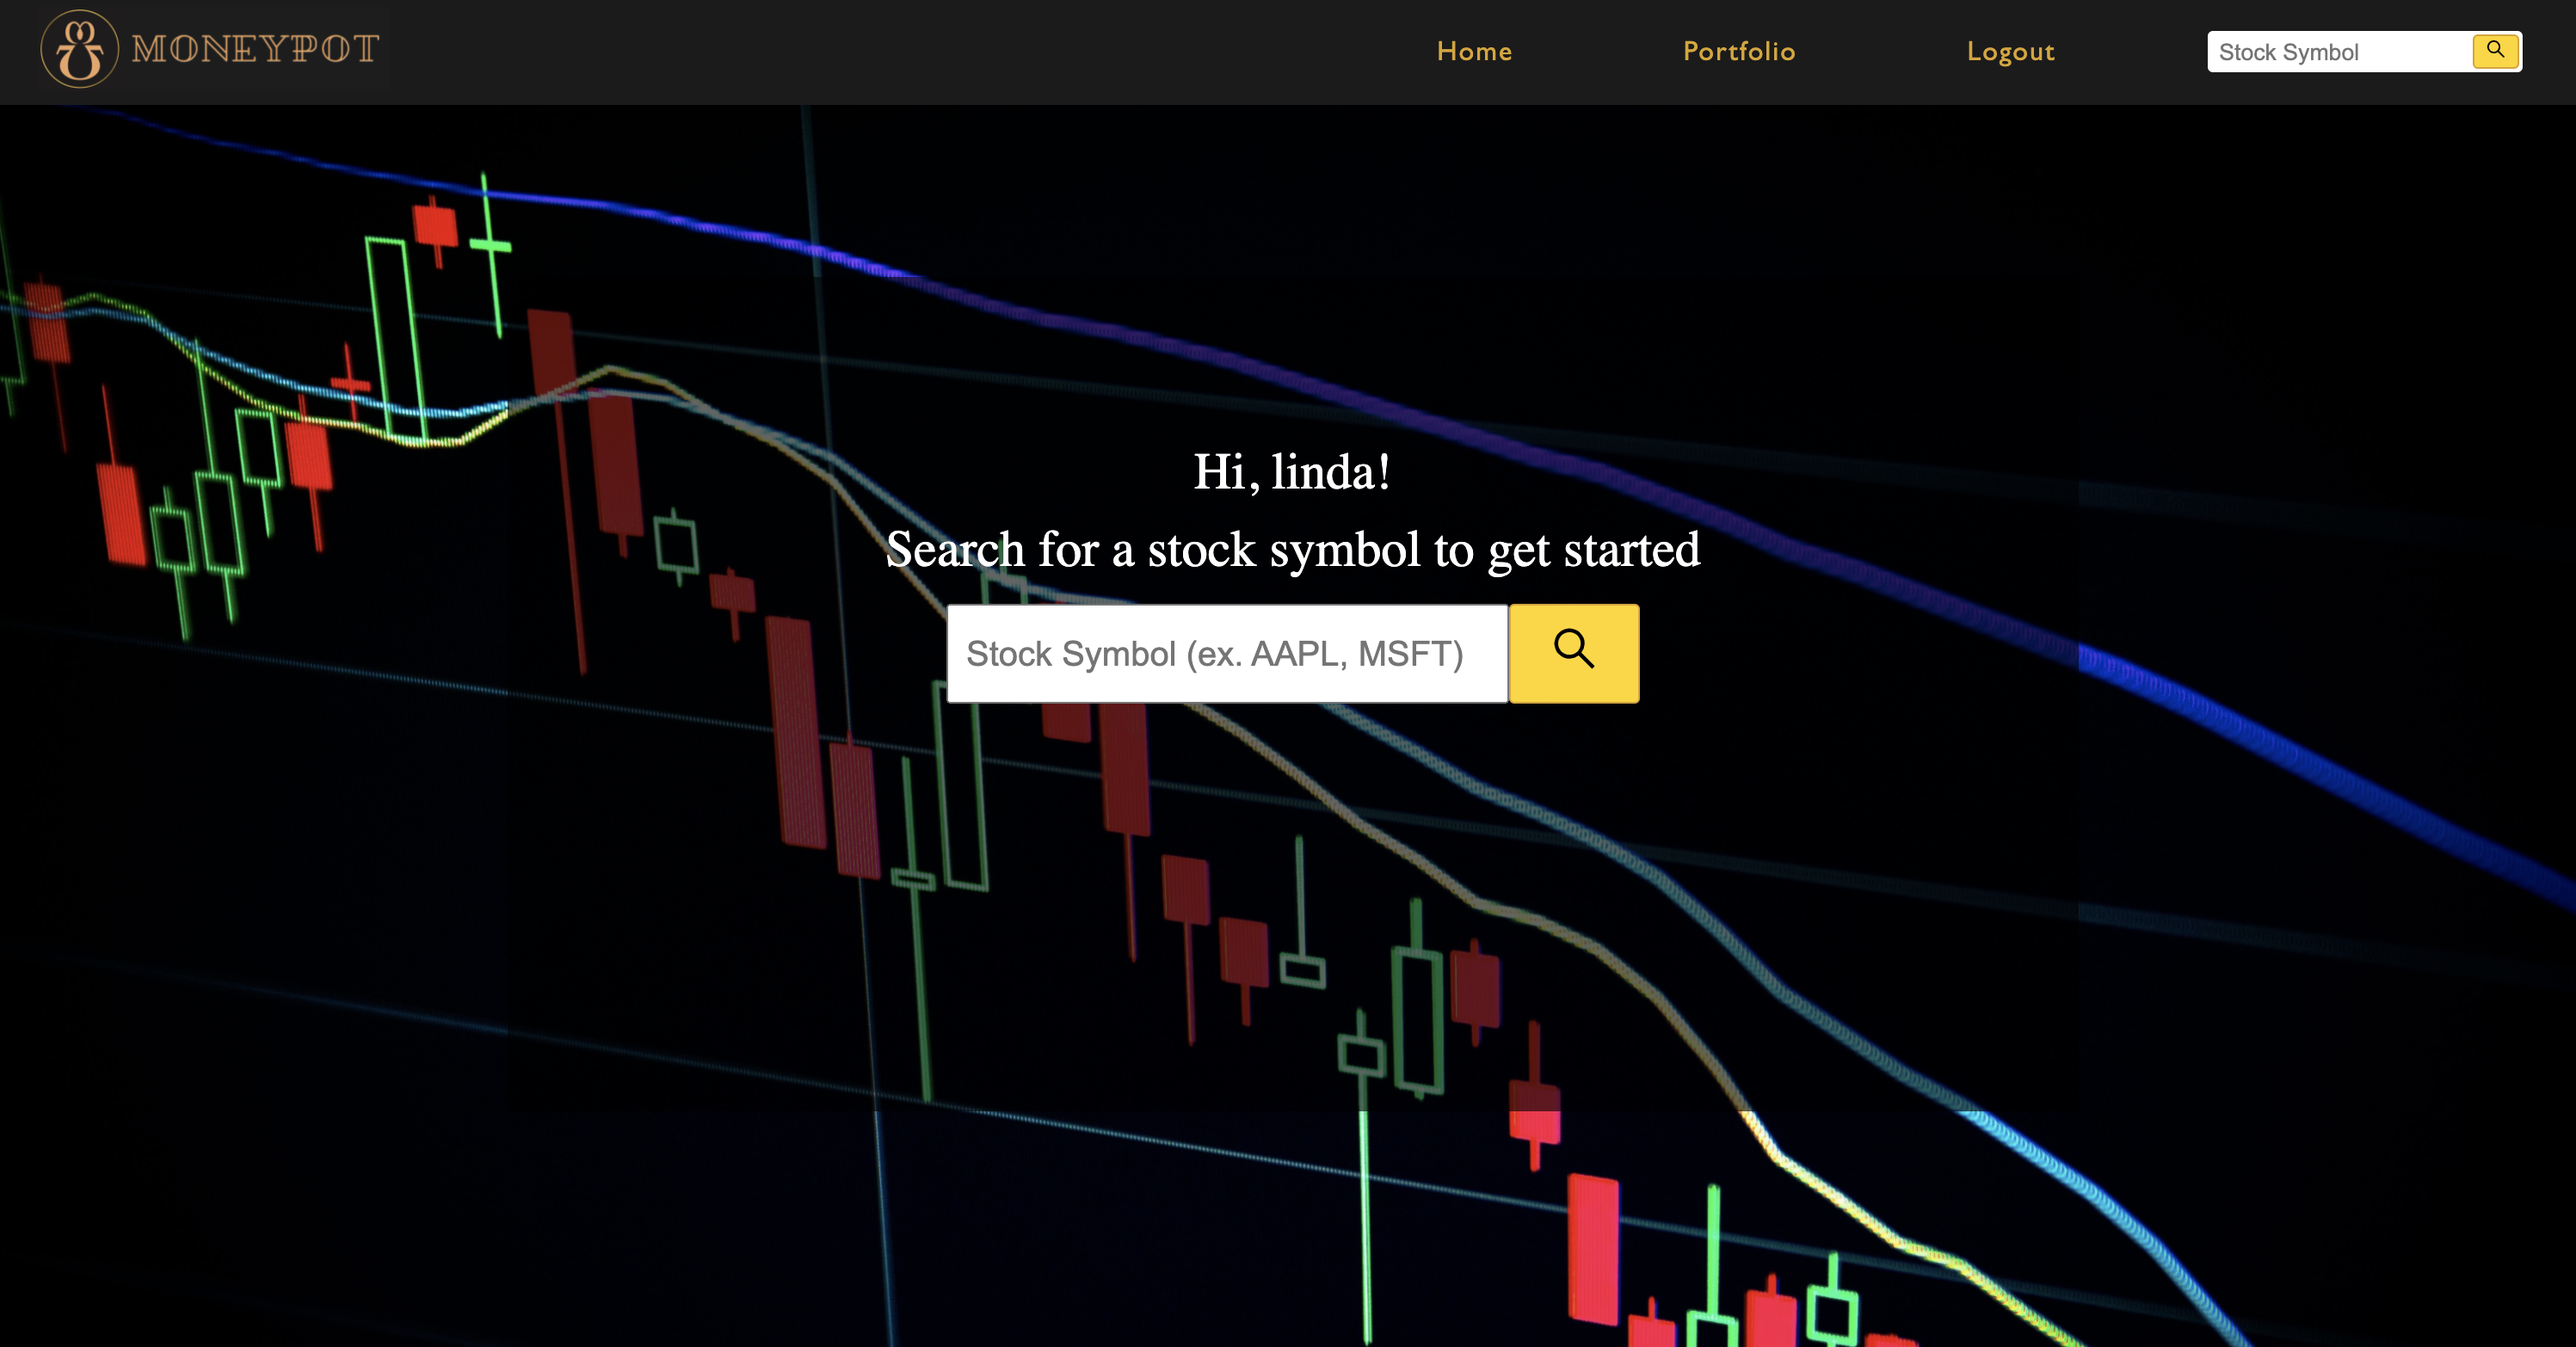
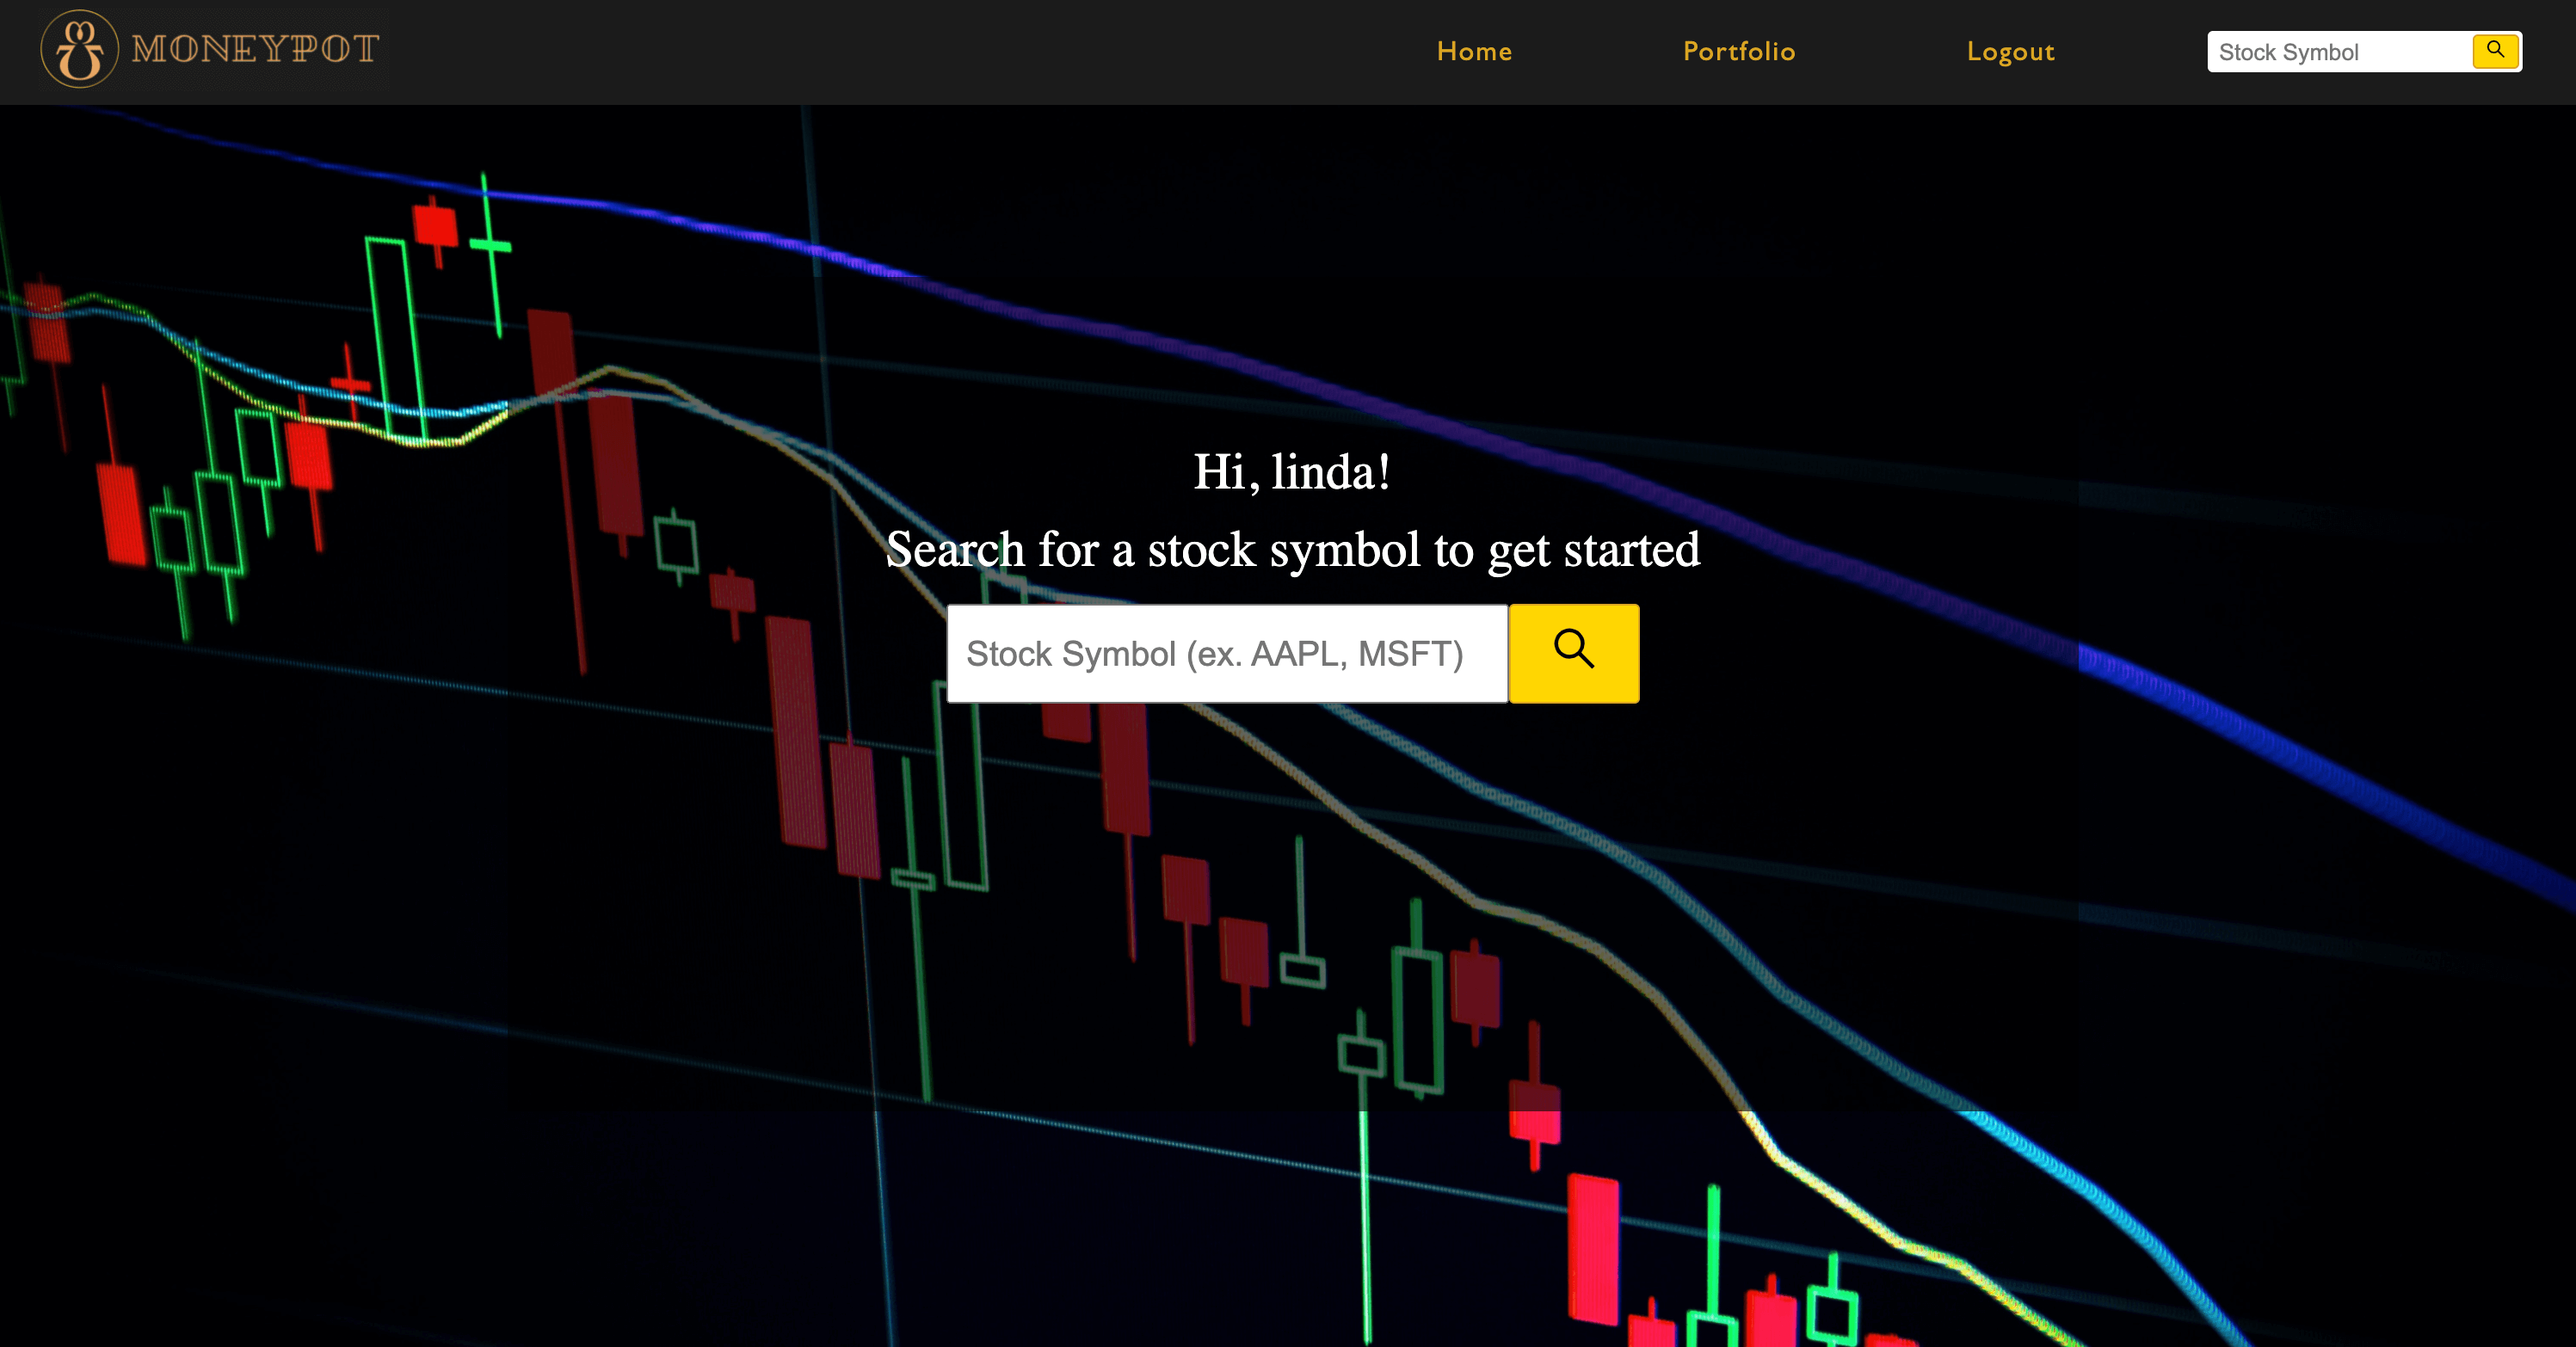
Compress images

diff --git a/server/src/app.ts b/server/src/app.ts
@@ -14,9 +14,7 @@ import sessionRoute from './routes/session';
 import portfolioRoute from './routes/portfolio';
 
 dotenv.config();
-//mongoose.connect(`mongodb+srv://dev:${process.env.MONGO_PASSWORD}@moneypot.euzhx.mongodb.net/Moneypot?retryWrites=true&w=majority`, {
-mongoose.connect(`mongodb://localhost:27017`,
-  {
+mongoose.connect(`mongodb+srv://dev:${process.env.MONGO_PASSWORD}@moneypot.euzhx.mongodb.net/Moneypot?retryWrites=true&w=majority`, {
     useCreateIndex: true,
     useNewUrlParser: true,
     useUnifiedTopology: true,
